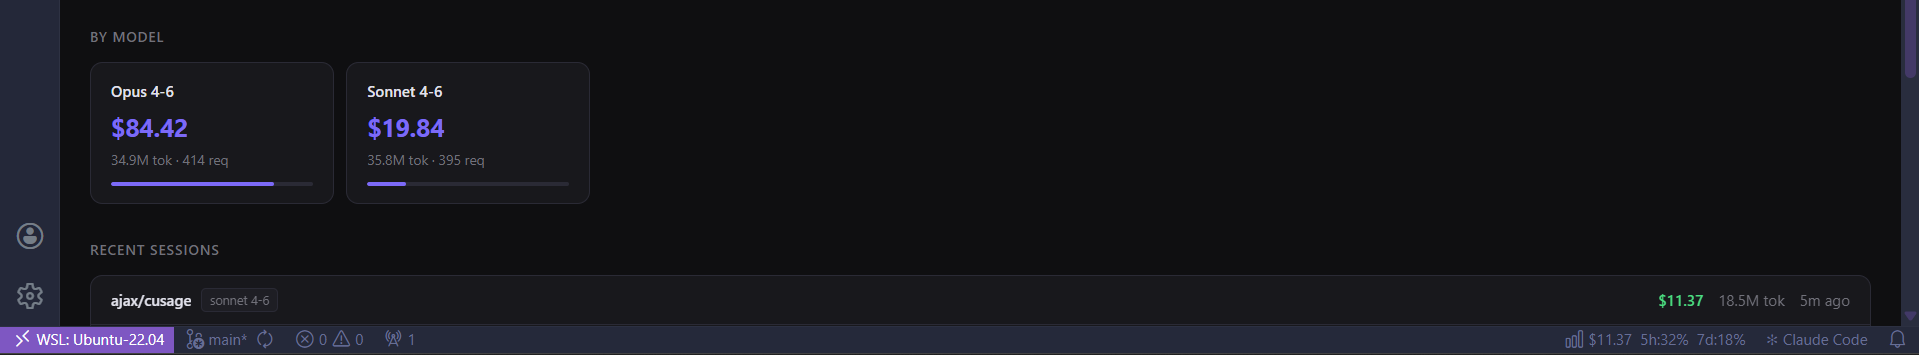
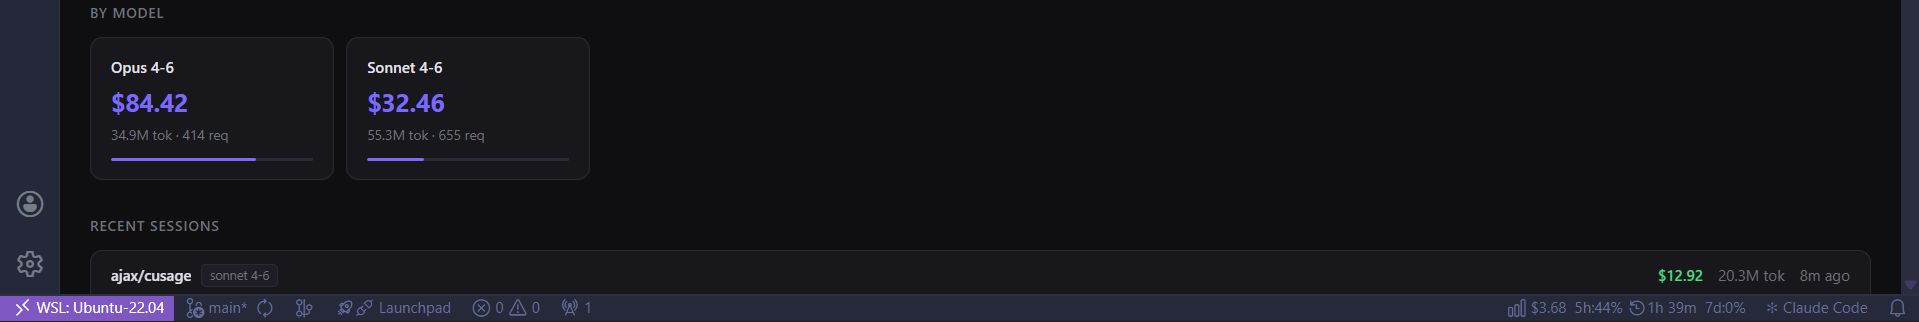
Fix: Stale quota reset

diff --git a/src/extension.ts b/src/extension.ts
@@ -10,15 +10,17 @@ import { fetchQuota, QuotaData } from './quota';
 let statusBar: StatusBarController | undefined;
 let lastSummary: UsageSummary | undefined;
 let lastQuota: QuotaData | null = null;
+let extContext: vscode.ExtensionContext | undefined;
 
 async function refreshUsage(): Promise<void> {
   try {
     const records = await scanAllProjects();
     lastSummary = aggregate(records);
+    extContext?.globalState.update('lastSummary', lastSummary);
     statusBar?.update(lastSummary, lastQuota);
     refreshDashboard(lastSummary, lastQuota);
   } catch (err) {
-    console.error('[cusage] usage refresh error:', err);
+    console.error('[clusage] usage refresh error:', err);
   }
 }
 
@@ -27,6 +29,13 @@ let resetRefreshTimer: ReturnType<typeof setTimeout> | undefined;
 async function refreshQuota(): Promise<void> {
   try {
     lastQuota = await fetchQuota();
+    if (lastQuota) {
+      extContext?.globalState.update('lastQuota', {
+        ...lastQuota,
+        fiveHourResetAt: lastQuota.fiveHourResetAt.toISOString(),
+        sevenDayResetAt: lastQuota.sevenDayResetAt.toISOString(),
+      });
+    }
     if (lastSummary) {
       statusBar?.update(lastSummary, lastQuota);
       refreshDashboard(lastSummary, lastQuota);
@@ -49,16 +58,41 @@ async function refreshQuota(): Promise<void> {
       }
     }
   } catch (err) {
-    console.error('[cusage] quota refresh error:', err);
+    console.error('[clusage] quota refresh error:', err);
   }
 }
 
 export function activate(context: vscode.ExtensionContext): void {
+  extContext = context;
   statusBar = new StatusBarController();
   context.subscriptions.push(statusBar);
 
+  // Restore cached data instantly so the status bar is never blank on load
+  const cachedSummary = context.globalState.get<UsageSummary>('lastSummary');
+  const cachedQuotaRaw = context.globalState.get<any>('lastQuota');
+
+  if (cachedSummary) {
+    lastSummary = cachedSummary;
+  }
+  if (cachedQuotaRaw) {
+    const now = Date.now();
+    const fiveHourResetAt = new Date(cachedQuotaRaw.fiveHourResetAt);
+    const sevenDayResetAt = new Date(cachedQuotaRaw.sevenDayResetAt);
+    lastQuota = {
+      ...cachedQuotaRaw,
+      fiveHourResetAt,
+      sevenDayResetAt,
+      // If the reset time has already passed, zero out that window
+      fiveHourUtilization: fiveHourResetAt.getTime() <= now ? 0 : cachedQuotaRaw.fiveHourUtilization,
+      sevenDayUtilization: sevenDayResetAt.getTime() <= now ? 0 : cachedQuotaRaw.sevenDayUtilization,
+    };
+  }
+  if (lastSummary) {
+    statusBar.update(lastSummary, lastQuota);
+  }
+
   // Open dashboard command
-  const openCmd = vscode.commands.registerCommand('cusage.openPanel', () => {
+  const openCmd = vscode.commands.registerCommand('clusage.openPanel', () => {
     if (lastSummary) {
       showDashboard(context, lastSummary, lastQuota);
     } else {

diff --git a/src/statusBar.ts b/src/statusBar.ts
@@ -10,7 +10,7 @@ export class StatusBarController {
       vscode.StatusBarAlignment.Right,
       100
     );
-    this.item.command = 'cusage.openPanel';
+    this.item.command = 'clusage.openPanel';
     this.item.text = '$(graph) Claude...';
     this.item.tooltip = 'Claude Usage — click to open dashboard';
     this.item.show();
@@ -25,9 +25,10 @@ export class StatusBarController {
       v < 0.1    ? `${(v * 100).toFixed(1)}%` :
                    `${Math.round(v * 100)}%`;
 
-    // Status bar: $(graph) $3.70  5h:46%  7d:6%
+    // Status bar: $(graph) $3.70  5h:46% 1h23m  7d:6%
     if (quota) {
-      this.item.text = `$(graph) ${cost}  5h:${fmtPct(quota.fiveHourUtilization)}  7d:${fmtPct(quota.sevenDayUtilization)}`;
+      const fiveHourReset = timeUntil(quota.fiveHourResetAt);
+      this.item.text = `$(graph) ${cost}  5h:${fmtPct(quota.fiveHourUtilization)} $(clock)${fiveHourReset}  7d:${fmtPct(quota.sevenDayUtilization)}`;
     } else {
       this.item.text = `$(graph) ${cost}`;
     }

diff --git a/src/webview.ts b/src/webview.ts
@@ -12,7 +12,7 @@ export function showDashboard(context: vscode.ExtensionContext, summary: UsageSu
   }
 
   currentPanel = vscode.window.createWebviewPanel(
-    'cusage.dashboard',
+    'clusage.dashboard',
     'Claude Usage',
     vscode.ViewColumn.One,
     { enableScripts: true, retainContextWhenHidden: true }

diff --git a/README.md b/README.md
@@ -1,6 +1,6 @@
 <div align="center">
 
-<img src="https://raw.githubusercontent.com/AjaySingh10/cusage/main/media/icon.png" width="128" height="128" alt="Claude Usage icon"/>
+<img src="https://raw.githubusercontent.com/AjaySingh10/clusage/main/media/icon.png" width="128" height="128" alt="Claude Usage icon"/>
 
 # Clusage - Claude Usage Tracker
 
@@ -8,8 +8,8 @@
 
 Track every dollar, token, and quota percentage across all your Claude Code sessions without leaving your editor.
 
-[![Version](https://img.shields.io/badge/version-1.0.2-7c6af7?style=flat-square)](https://marketplace.visualstudio.com/items?itemName=cusage.cusage)
-[![VS Code](https://img.shields.io/badge/VS%20Code-1.85+-5eead4?style=flat-square)](https://marketplace.visualstudio.com/items?itemName=cusage.cusage)
+[![Version](https://img.shields.io/badge/version-2.0.0-7c6af7?style=flat-square)](https://marketplace.visualstudio.com/items?itemName=Ajax1029.clusage)
+[![VS Code](https://img.shields.io/badge/VS%20Code-1.85+-5eead4?style=flat-square)](https://marketplace.visualstudio.com/items?itemName=Ajax1029.clusage)
 [![License](https://img.shields.io/badge/license-MIT-4ade80?style=flat-square)](LICENSE)
 
 </div>
@@ -34,18 +34,21 @@ Zero configuration. No API keys. No accounts. It just works.
 The status bar item updates in real time as you use Claude Code:
 
 ```
-⬡  $4.26  5h:60%  7d:8%
+⬡  $4.26  5h:60% 🕐1h23m  7d:8%
 ```
 
 | Segment | What it shows |
 |---|---|
 | `$4.26` | Your total spend today |
-| `5h:60%` | Current session quota used — live from Anthropic API headers |
+| `5h:60%` | 5-hour quota used — live from Anthropic API headers |
+| `🕐1h23m` | Time until the 5-hour quota window resets |
 | `7d:8%` | Weekly quota used — live from Anthropic API headers |
+
+When quota headers are unavailable, only the cost is shown: `⬡  $4.26`
 
 **Hover** over the item for a detailed breakdown table. **Click** to open the full dashboard.
 
-![Tooltip preview](https://raw.githubusercontent.com/AjaySingh10/cusage/main/media/tooltip.png)
+![Tooltip preview](https://raw.githubusercontent.com/AjaySingh10/clusage/main/media/statusbar.png)
 
 ---
 
@@ -57,8 +60,8 @@ Open with a click on the status bar item or via the Command Palette:
 
 The dashboard is a beautiful dark-themed panel with six sections:
 
-![Dashboard preview](https://raw.githubusercontent.com/AjaySingh10/cusage/main/media/dashboard.png) 
-![Dashboard preview](https://raw.githubusercontent.com/AjaySingh10/cusage/main/media/dashboard2.png) 
+![Dashboard preview](https://raw.githubusercontent.com/AjaySingh10/clusage/main/media/dashboard.png) 
+![Dashboard preview](https://raw.githubusercontent.com/AjaySingh10/clusage/main/media/dashboard2.png) 
 
 ---
 
@@ -170,14 +173,14 @@ Search for **Claude Usage** in the Extensions panel (`Ctrl+Shift+X`) and click *
 **From a `.vsix` file**
 
 ```bash
-code --install-extension cusage-1.0.0.vsix
+code --install-extension clusage-2.0.0.vsix
 ```
 
 **Build from source**
 
 ```bash
-git clone https://github.com/ajax/cusage.git
-cd cusage
+git clone https://github.com/AjaySingh10/clusage.git
+cd clusage
 npm install
 npm run compile
 ```
@@ -232,7 +235,7 @@ npm run watch   # TypeScript watch mode
 # Press F5 in VS Code → Extension Development Host with live reload
 ```
 
-Please open issues at [github.com/ajax/cusage/issues](https://github.com/ajax/cusage/issues).
+Please open issues at [github.com/AjaySingh10/clusage/issues](https://github.com/AjaySingh10/clusage/issues).
 
 ---
 

diff --git a/CHANGELOG.md b/CHANGELOG.md
@@ -6,6 +6,17 @@ The format follows [Keep a Changelog](https://keepachangelog.com/en/1.0.0/), and
 
 ---
 
+## [2.0.0] — 2026-04-10
+
+### Changed
+- Status bar now shows 5h session time remaining alongside quota percentage: `$(graph) $3.70  5h:46% $(clock)1h23m  7d:6%`
+
+### Fixed
+- **Instant load on startup** — last known usage and quota are cached in `globalState` and restored immediately when VS Code opens, so the status bar is never blank while waiting for network/disk
+- **Stale quota after reset** — if a quota window's reset time already passed while VS Code was closed, utilization is shown as 0% on restore rather than the old cached value
+
+---
+
 ## [1.0.2] — 2026-04-03
 
 ### Changed
